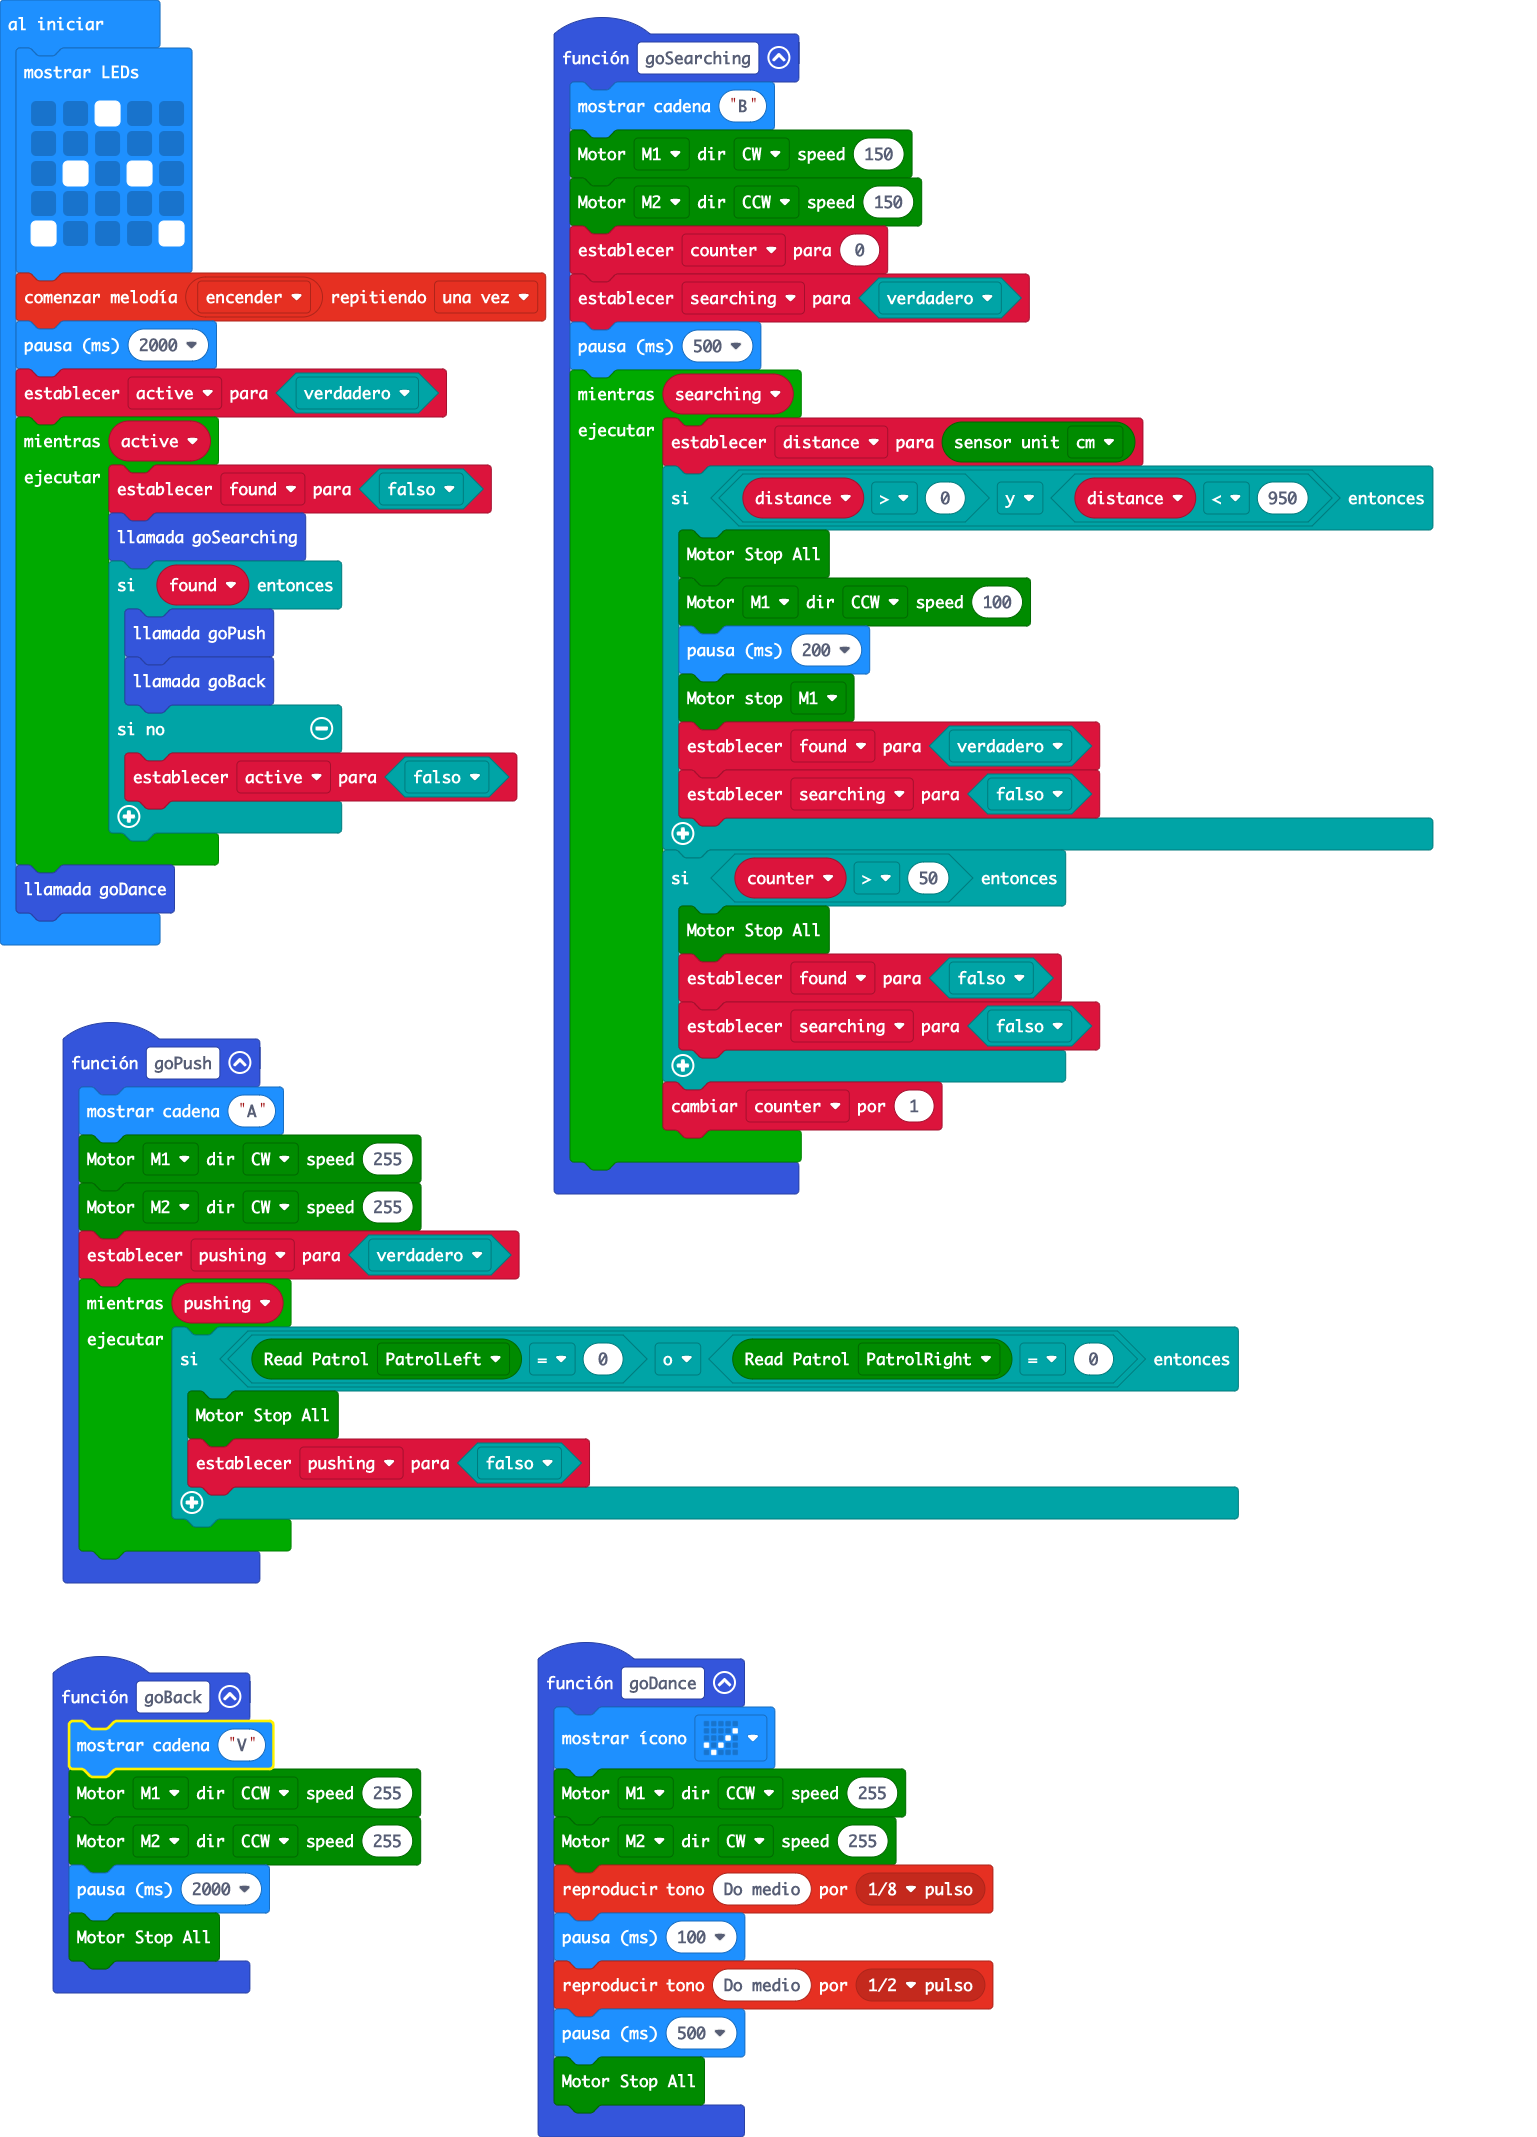
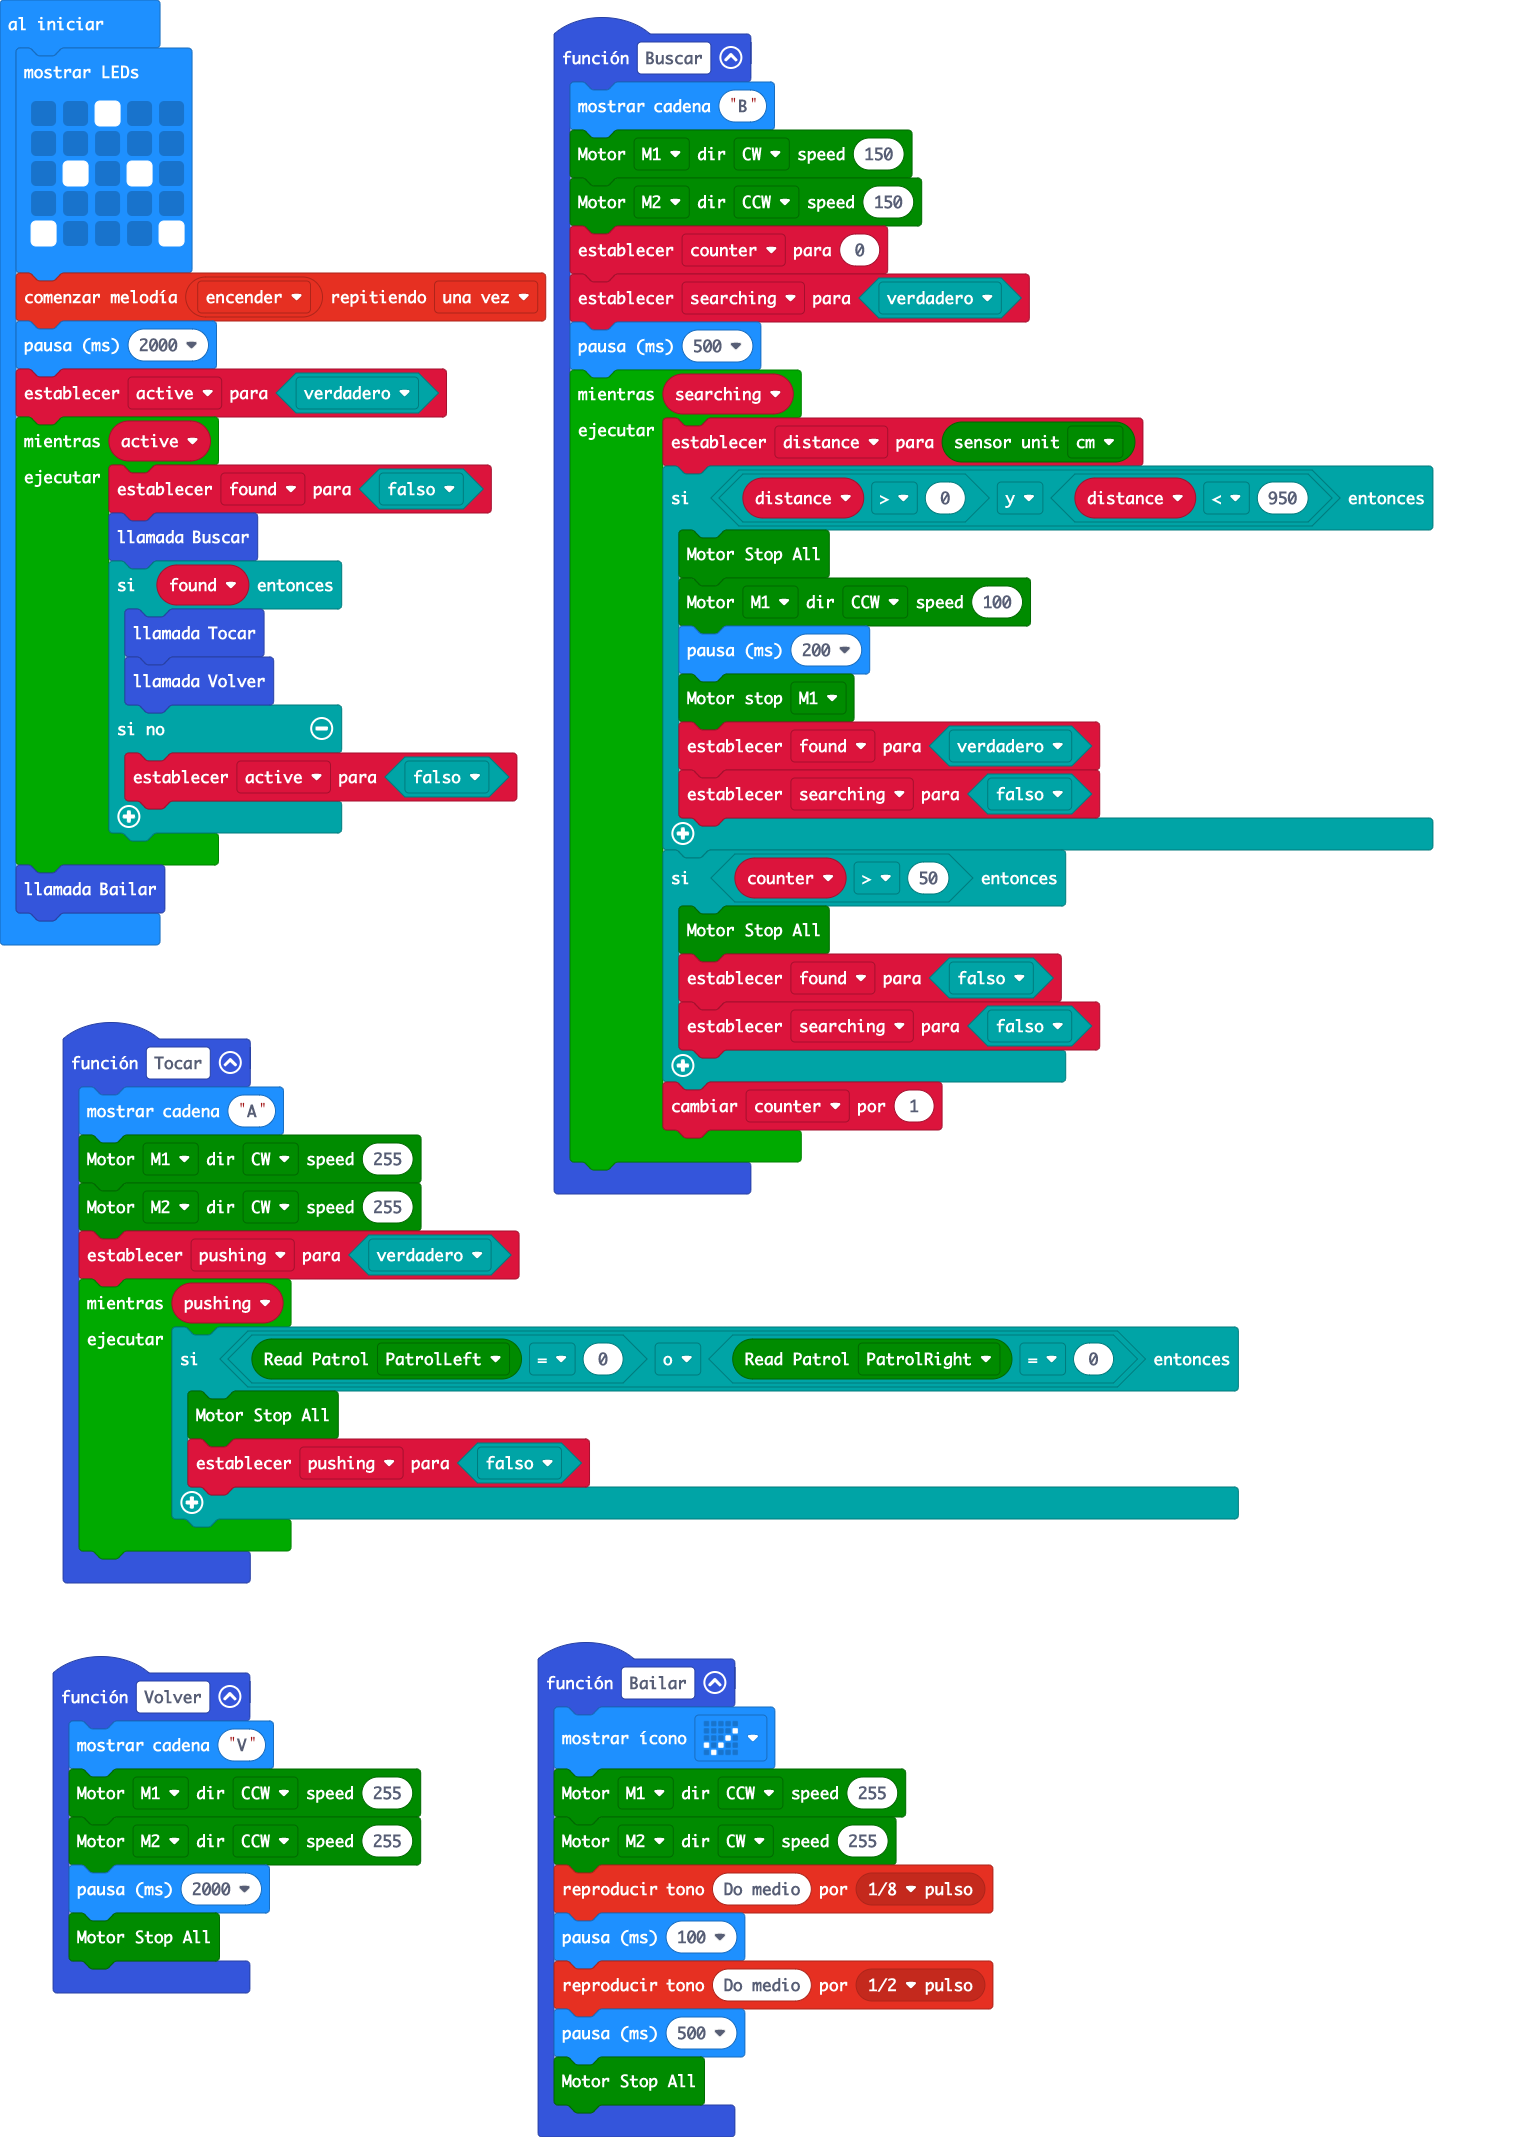
Actualizar main.blocks, main.ts

diff --git a/main.ts b/main.ts
@@ -1,4 +1,11 @@
-function goSearching () {
+function Volver () {
+    basic.showString("V")
+    maqueen.MotorRun(maqueen.aMotors.M1, maqueen.Dir.CCW, 255)
+    maqueen.MotorRun(maqueen.aMotors.M2, maqueen.Dir.CCW, 255)
+    basic.pause(2000)
+    maqueen.motorStopAll()
+}
+function Buscar () {
     basic.showString("B")
     maqueen.MotorRun(maqueen.aMotors.M1, maqueen.Dir.CW, 150)
     maqueen.MotorRun(maqueen.aMotors.M2, maqueen.Dir.CCW, 150)
@@ -23,24 +30,7 @@ function goSearching () {
         counter += 1
     }
 }
-function goDance () {
-    basic.showIcon(IconNames.Yes)
-    maqueen.MotorRun(maqueen.aMotors.M1, maqueen.Dir.CCW, 255)
-    maqueen.MotorRun(maqueen.aMotors.M2, maqueen.Dir.CW, 255)
-    music.playTone(262, music.beat(BeatFraction.Eighth))
-    basic.pause(100)
-    music.playTone(262, music.beat(BeatFraction.Half))
-    basic.pause(500)
-    maqueen.motorStopAll()
-}
-function goBack () {
-    basic.showString("V")
-    maqueen.MotorRun(maqueen.aMotors.M1, maqueen.Dir.CCW, 255)
-    maqueen.MotorRun(maqueen.aMotors.M2, maqueen.Dir.CCW, 255)
-    basic.pause(2000)
-    maqueen.motorStopAll()
-}
-function goPush () {
+function Tocar () {
     basic.showString("A")
     maqueen.MotorRun(maqueen.aMotors.M1, maqueen.Dir.CW, 255)
     maqueen.MotorRun(maqueen.aMotors.M2, maqueen.Dir.CW, 255)
@@ -51,6 +41,16 @@ function goPush () {
             pushing = false
         }
     }
+}
+function Bailar () {
+    basic.showIcon(IconNames.Yes)
+    maqueen.MotorRun(maqueen.aMotors.M1, maqueen.Dir.CCW, 255)
+    maqueen.MotorRun(maqueen.aMotors.M2, maqueen.Dir.CW, 255)
+    music.playTone(262, music.beat(BeatFraction.Eighth))
+    basic.pause(100)
+    music.playTone(262, music.beat(BeatFraction.Half))
+    basic.pause(500)
+    maqueen.motorStopAll()
 }
 let pushing = false
 let distance = 0
@@ -69,12 +69,12 @@ basic.pause(2000)
 let active = true
 while (active) {
     found = false
-    goSearching()
+    Buscar()
     if (found) {
-        goPush()
-        goBack()
+        Tocar()
+        Volver()
     } else {
         active = false
     }
 }
-goDance()
+Bailar()
